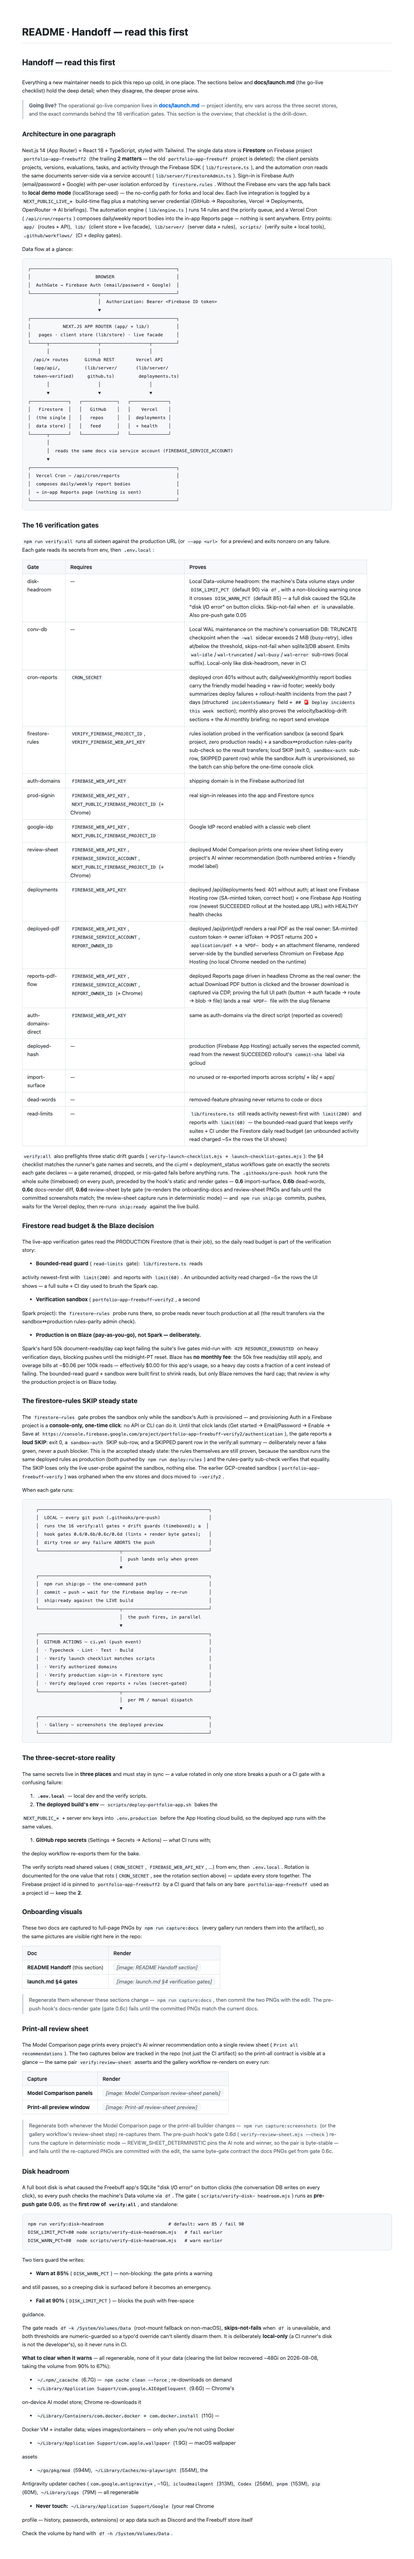
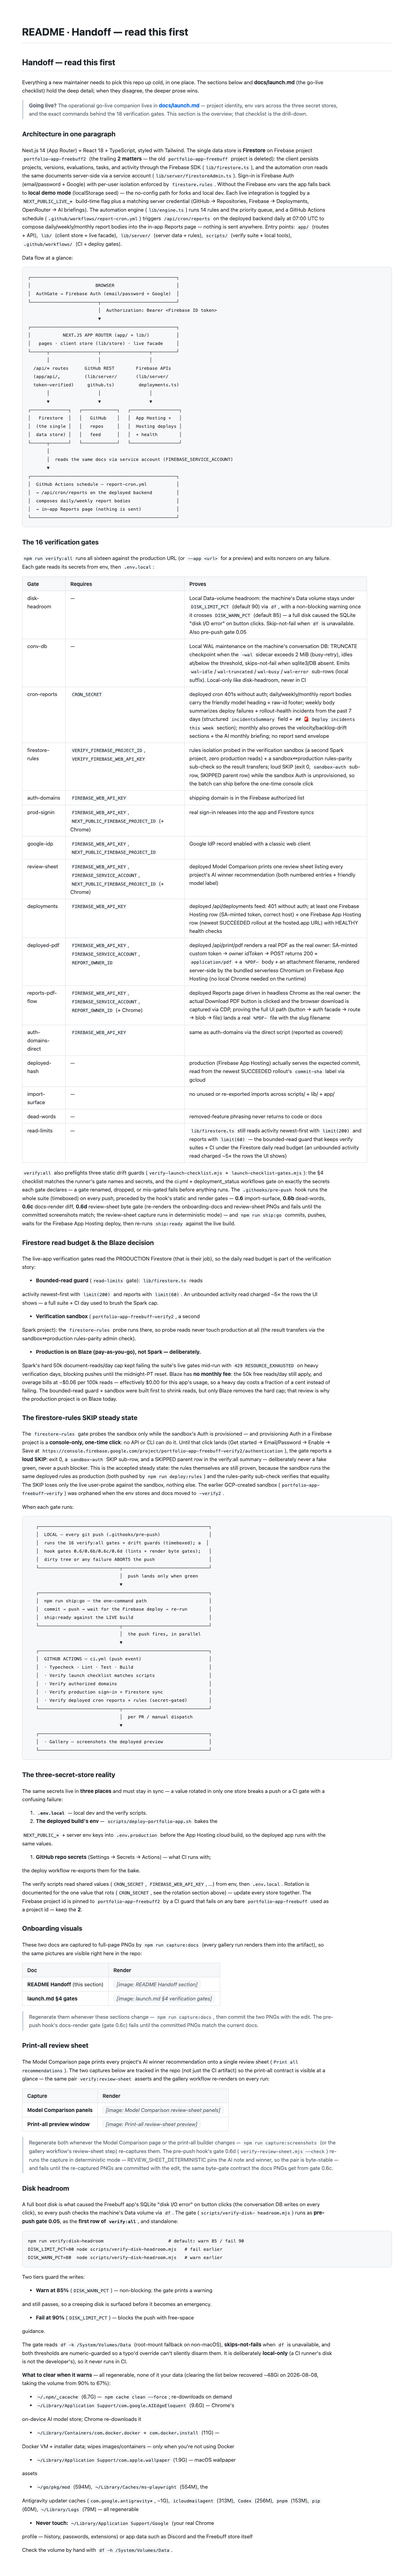
docs: point README live links, badge, and cron docs at Firebase
The parent app fully retired Vercel (PR #79/#80); the README was the last
surface still referencing it. Refresh the badge + live-app links to the
Firebase App Hosting hosted.app URL, describe the cron as the GitHub
Actions schedule (report-cron.yml) instead of the deleted vercel.json
cron, correct the deployments-feed and production-env sections, and
recapture docs-handoff.png (docs-render gate).

Update readme-teeth.test.ts lockstep: the teeth section now frames the
proofs as read-only against git only (Vercel retired).

Generated with Codebuff 🤖

Changed region(s): [[0.0617, 0.2182, 0.8633, 0.9661], [0.0617, 0.0312, 0.8017, 0.2493], [0.1542, 0.2805, 0.37, 0.4052]]

diff --git a/scripts/readme-teeth.test.ts b/scripts/readme-teeth.test.ts
@@ -26,7 +26,7 @@ const TEETH = README.slice(teethStart, teethEnd === -1 ? undefined : teethEnd);
 describe("README · 'Re-proving the gate's teeth in seconds'", () => {
   it('keeps the section with its read-only framing and the npm-script entry points', () => {
     expect(TEETH.length).toBeGreaterThan(0);
-    expect(TEETH).toContain('All are read-only against git and Vercel');
+    expect(TEETH).toContain('All are read-only against git');
     // The npm scripts are the no-copy-paste entry points; the runner copies
     // the CURRENT artifacts, so the proofs are age-independent.
     expect(TEETH).toContain('copies the CURRENT hook/driver artifacts in');

diff --git a/README.md b/README.md
@@ -4,14 +4,14 @@
 
 **One dashboard to run every AI-built version of your app idea.**
 
-[![Live app](https://img.shields.io/badge/Live%20app-Vercel-000000?style=for-the-badge&logo=vercel&logoColor=white)](https://portfolio-app-freebuff.vercel.app)
+[![Live app](https://img.shields.io/badge/Live%20app-Firebase%20App%20Hosting-FFCA28?style=for-the-badge&logo=firebase&logoColor=black)](https://portfolio-app-freebuff--portfolio-app-freebuff2.us-central1.hosted.app)
 [![CI](https://img.shields.io/github/actions/workflow/status/LCHEROURI/portfolio-app-freebuff/ci.yml?style=for-the-badge&logo=githubactions&logoColor=white&label=CI)](https://github.com/LCHEROURI/portfolio-app-freebuff/actions/workflows/ci.yml)
 [![Next.js](https://img.shields.io/badge/Next.js%2014-black?style=for-the-badge&logo=nextdotjs&logoColor=white)](https://nextjs.org)
 [![TypeScript](https://img.shields.io/badge/TypeScript-3178C6?style=for-the-badge&logo=typescript&logoColor=white)](https://www.typescriptlang.org)
 [![Firebase](https://img.shields.io/badge/Firebase-FFCA28?style=for-the-badge&logo=firebase&logoColor=black)](https://firebase.google.com)
 [![Tailwind](https://img.shields.io/badge/Tailwind%20CSS-38BDF8?style=for-the-badge&logo=tailwindcss&logoColor=white)](https://tailwindcss.com)
 
-**[Live app →](https://portfolio-app-freebuff.vercel.app)** · Real Firebase Auth — sign in with email/password or Google to see your command center.
+**[Live app →](https://portfolio-app-freebuff--portfolio-app-freebuff2.us-central1.hosted.app)** · Real Firebase Auth — sign in with email/password or Google to see your command center.
 
 </div>
 
@@ -53,10 +53,12 @@ Google) with per-user isolation enforced by `firestore.rules`. Without the
 Firebase env vars the app falls back to **local demo mode** (localStorage
 seed) — the no-config path for forks and local dev. Each live integration is
 toggled by a `NEXT_PUBLIC_LIVE_*` build-time flag plus a matching server
-credential (GitHub → Repositories, Vercel → Deployments, OpenRouter → AI
+credential (GitHub → Repositories, Firebase → Deployments, OpenRouter → AI
 briefings). The automation engine (`lib/engine.ts`) runs 14 rules and the
-priority queue, and a Vercel Cron (`/api/cron/reports`) composes daily/weekly
-report bodies into the in-app Reports page — nothing is sent anywhere. Entry
+priority queue, and a GitHub Actions schedule (`.github/workflows/report-cron.yml`)
+triggers `/api/cron/reports` on the deployed backend daily at 07:00 UTC to
+compose daily/weekly/monthly report bodies into the in-app Reports page —
+nothing is sent anywhere. Entry
 points: `app/` (routes + API), `lib/` (client store + live facade),
 `lib/server/` (server data + rules), `scripts/` (verify suite + local tools),
 `.github/workflows/` (CI + deploy gates).
@@ -75,21 +77,22 @@ Data flow at a glance:
 │   pages · client store (lib/store) · live facade     │
 └──────┬──────────────────┬──────────────────┬─────────┘
        │                  │                  │
-  /api/* routes      GitHub REST        Vercel API
+  /api/* routes      GitHub REST        Firebase APIs
   (app/api/,         (lib/server/       (lib/server/
   token-verified)     github.ts)         deployments.ts)
        │                  │                  │
        ▼                  ▼                  ▼
-┌──────────────┐   ┌─────────────┐   ┌──────────────┐
-│   Firestore  │   │   GitHub    │   │    Vercel    │
-│  (the single │   │   repos     │   │  deployments │
-│  data store) │   │   feed      │   │  + health    │
-└──────┬───────┘   └─────────────┘   └──────────────┘
+┌──────────────┐   ┌─────────────┐   ┌──────────────────┐
+│   Firestore  │   │   GitHub    │   │  App Hosting +   │
+│  (the single │   │   repos     │   │  Hosting deploys │
+│  data store) │   │   feed      │   │  + health        │
+└──────┬───────┘   └─────────────┘   └──────────────────┘
        │
        │  reads the same docs via service account (FIREBASE_SERVICE_ACCOUNT)
        ▼
 ┌──────────────────────────────────────────────────────┐
-│  Vercel Cron — /api/cron/reports                     │
+│  GitHub Actions schedule — report-cron.yml           │
+│  → /api/cron/reports on the deployed backend         │
 │  composes daily/weekly report bodies                 │
 │  → in-app Reports page (nothing is sent)             │
 └──────────────────────────────────────────────────────┘
@@ -131,7 +134,7 @@ preceded by the hook's static and render gates — **0.6** import-surface,
 gate (re-renders the onboarding-docs and review-sheet PNGs and fails until
 the committed screenshots match; the review-sheet capture runs in
 deterministic mode) — and `npm run ship:go` commits, pushes, waits for the
-Vercel deploy, then re-runs `ship:ready` against the live build.
+Firebase App Hosting deploy, then re-runs `ship:ready` against the live build.
 
 ### Firestore read budget & the Blaze decision
 
@@ -318,8 +321,8 @@ The same screens in light and dark — the sidebar's connection-status widget
 (per-var console links + copy buttons) is visible on every route. Captured
 from a demo build (`NEXT_PUBLIC_DEMO_OVERRIDE=1`, see below) so the shots show
 the app's screens without the sign-in gate; the live production URL
-(`portfolio-app-freebuff.vercel.app`) is **Firebase-live** and starts at the
-auth gate.
+(`portfolio-app-freebuff--portfolio-app-freebuff2.us-central1.hosted.app`) is
+**Firebase-live** and starts at the auth gate.
 
 | Route | Light | Dark |
 | :--- | :---: | :---: |
@@ -334,7 +337,7 @@ auth gate.
 | **Settings** | ![Settings light](screenshots/settings.png) | ![Settings dark](screenshots/settings-dark.png) |
 
 > Try either theme on the live site: `?theme=light` / `?theme=dark` — e.g.
-> `https://portfolio-app-freebuff.vercel.app/command-center?theme=dark` (the
+> `https://portfolio-app-freebuff--portfolio-app-freebuff2.us-central1.hosted.app/command-center?theme=dark` (the
 > site is Firebase-live, so the first screen you meet is the sign-in gate)
 >
 > Regenerate the whole gallery whenever the UI changes with one command
@@ -386,7 +389,7 @@ auth gate.
 - **Frontend:** Next.js 14 (App Router), React 18, TypeScript
 - **Styling:** Tailwind CSS, Lucide icons, light/dark/system themes (`?theme=` URL override)
 - **Data:** Firebase Auth + Cloud Firestore (typed, user-isolated, `firestore.rules`) with a fully functional **local demo fallback** (localStorage) — local demo data can be **imported into a real account** on first sign-in
-- **Automation:** 14-rule engine + priority queue + "Today's Top Three", fired by a Vercel Cron (`/api/cron/reports`) that composes daily/weekly reports against live data
+- **Automation:** 14-rule engine + priority queue + "Today's Top Three", fired by a GitHub Actions schedule (`.github/workflows/report-cron.yml`) that triggers `/api/cron/reports` to compose daily/weekly/monthly reports against live data
 - **Integrations:** GitHub REST, Vercel API, Google Calendar, Gemini AI summaries
 
 ## Getting started
@@ -464,12 +467,13 @@ persists to localStorage and the app never asks for credentials. This is the
 fallback for local dev / forks — the deployed **Production** environment has
 all six Firebase vars set and runs verified Firebase-live, not demo mode.
 
-### 🌐 Production environment on Vercel
+### 🌐 Production environment on Firebase App Hosting
 
-As of the current deploy, the Vercel project's **Production** environment runs
-in **Firebase mode** — every live API route requires a cryptographically
-verified Firebase ID token. The environment carries these variables (names only
-— values are encrypted in Vercel and never committed):
+As of the current deploy, the Firebase App Hosting backend's **Production**
+environment runs in **Firebase mode** — every live API route requires a
+cryptographically verified Firebase ID token. The environment carries these
+variables (names only — values are baked into `.env.production` by
+`scripts/deploy-portfolio-app.sh` and never committed):
 
 ```bash
 # Firebase identity + data (flips every API route from demo to verified auth)
@@ -497,8 +501,9 @@ every live API route (`/api/tasks`, `/api/repos`, `/api/deployments`, all
 Firebase ID token** and ignores the legacy `x-app-user` header. If a future
 deploy silently drops one of these six, the app falls back to **demo mode**:
 the auth gate disappears, data lives in per-browser localStorage, and the API
-routes trust the spoofable `x-app-user` header again. Keep the full set on
-Vercel in every environment that should behave as a real account.
+routes trust the spoofable `x-app-user` header again. Keep the full set in the
+deployed backend's server env for every environment that should behave as a
+real account.
 
 **Demo-mode identity caveat:** a local dev server runs in demo mode unless you
 copy the same six Firebase vars into `.env.local`. When they are present the
@@ -604,11 +609,13 @@ route.
 
 ### 🤖 Automation Engine — scheduled daily/weekly/monthly report generation
 
-The 14 rules aren't just a dashboard widget — a **Vercel Cron job**
-(`vercel.json` → `/api/cron/reports`) evaluates them against the **live data**
-(Firestore tasks/projects/versions/evaluations via the service account, live
-GitHub repos, Vercel/Firebase deployments with health checks) and composes a
-report for the in-app **Reports** page (nothing is emailed):
+The 14 rules aren't just a dashboard widget — a **GitHub Actions schedule**
+(`.github/workflows/report-cron.yml`) hits `/api/cron/reports` on the deployed
+Firebase App Hosting backend daily at 07:00 UTC, evaluating the rules against
+the **live data** (Firestore tasks/projects/versions/evaluations via the
+service account, live GitHub repos, Firebase App Hosting/Hosting deployments
+with health checks) and composing a report for the in-app **Reports** page
+(nothing is emailed):
 
 - **Daily (07:00 UTC):** attention items, overdue + due-today + completed-
 yesterday tasks, failed deployments, unpushed commits, priority queue, and
@@ -623,13 +630,16 @@ narrated by the AI monthly briefing.
 **Setup:**
 
 ```bash
-# 1. Add to Vercel → Project → Settings → Environment Variables:
-CRON_SECRET=<long-random-string>   # Vercel Cron sends this as the auth header
+# 1. Set the CRON_SECRET GitHub Actions secret (Settings → Secrets → Actions):
+#    gh secret set CRON_SECRET --repo LCHEROURI/portfolio-app-freebuff
+CRON_SECRET=<long-random-string>   # report-cron.yml sends this as the auth header
 
 # 2. Optional: REPORT_OWNER_ID (default demo-user), REPORT_WEEKLY_DAY (1=Mon),
-#    REPORT_MONTHLY_DAY (1=1st), REPORT_STALE_DAYS (7)
+#    REPORT_MONTHLY_DAY (1=1st), REPORT_STALE_DAYS (7) — same value must be
+#    baked into the deployed app's server env by scripts/deploy-portfolio-app.sh.
 
-# 3. Redeploy — Vercel registers the cron from vercel.json automatically.
+# 3. The schedule is registered by the workflow file itself — no console config.
+#    Deploy the backend with the matching CRON_SECRET so the route accepts it.
 ```
 
 > **No email.** The cron evaluates the 14 automation rules and composes the
@@ -642,11 +652,11 @@ header, so it can't be triggered by the public. Test a run manually:
 
 ```bash
 curl -H "Authorization: Bearer $CRON_SECRET" \
-  "https://portfolio-app-freebuff.vercel.app/api/cron/reports?kind=daily"
+  "https://portfolio-app-freebuff--portfolio-app-freebuff2.us-central1.hosted.app/api/cron/reports?kind=daily"
 ```
 
 It skips composing while no live sources are wired (nothing to report), and each
-report is also visible in the Vercel cron invocation logs.
+run is visible in the Actions run list of the `Report cron` workflow.
 
 **Verifying the composed bodies without an inbox:** the route accepts a dev-only
 `?previewBody=1` flag (still CRON_SECRET-authed) that includes each composed
@@ -657,7 +667,7 @@ a file or viewer without waiting for the scheduled cron:
 
 ```bash
 curl -H "Authorization: Bearer $CRON_SECRET" \
-  "https://portfolio-app-freebuff.vercel.app/api/cron/reports?kind=daily&previewBody=1&format=text"
+  "https://portfolio-app-freebuff--portfolio-app-freebuff2.us-central1.hosted.app/api/cron/reports?kind=daily&previewBody=1&format=text"
 ```
 
 The packaged smoke test asserts the auth gate, the friendly model heading, the
@@ -686,12 +696,11 @@ packaged smoke tests run against the deployed URL after each push to `main`
 | `npm run verify:auth-domains` | Deployed `/api/status?project=<domain>` reports `authDomains.ok` for the shipping domain (defaults to the production URL; pass `--domain <preview-url>` to validate a preview before it ships) | `FIREBASE_WEB_API_KEY` |
 
 Set `CRON_SECRET` and `FIREBASE_WEB_API_KEY` in **GitHub → Settings → Secrets
-→ Actions** (and the same values in Vercel's env for the deployed app). The
-`verify-deployed` CI job runs cron-reports + Firestore rules after every push;
-the `verify-auth-domains` job fails the run when the domain is not in the
-project's Firebase **Authorized domains** list; and
-`.github/workflows/preview-gate.yml` runs the same check against every Vercel
-**preview** URL via the `deployment_status` webhook. The merged
+→ Actions** (and the same values baked into the deployed app's server env by
+`scripts/deploy-portfolio-app.sh`). The `verify-deployed` CI job runs
+cron-reports + Firestore rules after every push, and the
+`verify-auth-domains` job fails the run when the domain is not in the
+project's Firebase **Authorized domains** list. The merged
 `firestore.rules` itself is guarded by `lib/firestoreRules.test.ts`, which
 asserts every portfolio + meal-planner collection and its field-level
 constraints survive future edits.
@@ -709,7 +718,7 @@ Firestore `activity` collection when the service account is configured, so the
 `/activity` feed shows when the automation engine generated reports.
 
 **Rotating `CRON_SECRET`** (do this whenever it may have leaked, or to keep the
-local `.env.local` and the Vercel/GitHub values in lockstep):
+local `.env.local` and the deployed/GitHub values in lockstep):
 
 ```bash
 # 1. Generate a fresh value and update it everywhere the old one lives. Use
@@ -798,8 +807,8 @@ git worktree add --detach /tmp/portfolio-stale-guard HEAD~1 && (cd /tmp/portfoli
 git worktree add --detach /tmp/portfolio-hook-block HEAD~1 && mkdir -p /tmp/portfolio-hook-block/.githooks && cp .githooks/pre-push /tmp/portfolio-hook-block/.githooks/ && cp scripts/verify-deployed-hash-gate.mjs scripts/verify-deployed-hash.mjs /tmp/portfolio-hook-block/scripts/ && (cd /tmp/portfolio-hook-block && printf 'refs/heads/main a refs/heads/main b\n' | bash .githooks/pre-push; echo "hook exit=$?"); git worktree remove /tmp/portfolio-hook-block --force
 ```
 
-All are read-only against git and Vercel — nothing is pushed, deployed, or
-modified; only temporary worktrees are created and removed.
+All are read-only against git — nothing is pushed, deployed, or modified;
+only temporary worktrees are created and removed.
 
 ### Local Repository Scanner companion
 
@@ -821,7 +830,7 @@ without waiting for the scheduled run:
 npm run scan:all                          # sweep ~/Documents → local API
 npm run scan:all -- --root ~/dev          # custom root
 npm run scan:all -- --notify              # also fire the daily cron report
-node scripts/scan-all.mjs --api https://portfolio-app-freebuff.vercel.app/api/scanner \
+node scripts/scan-all.mjs --api https://portfolio-app-freebuff--portfolio-app-freebuff2.us-central1.hosted.app/api/scanner \
   --token <pat> --notify                  # sweep into the deployed API
 ```
 
